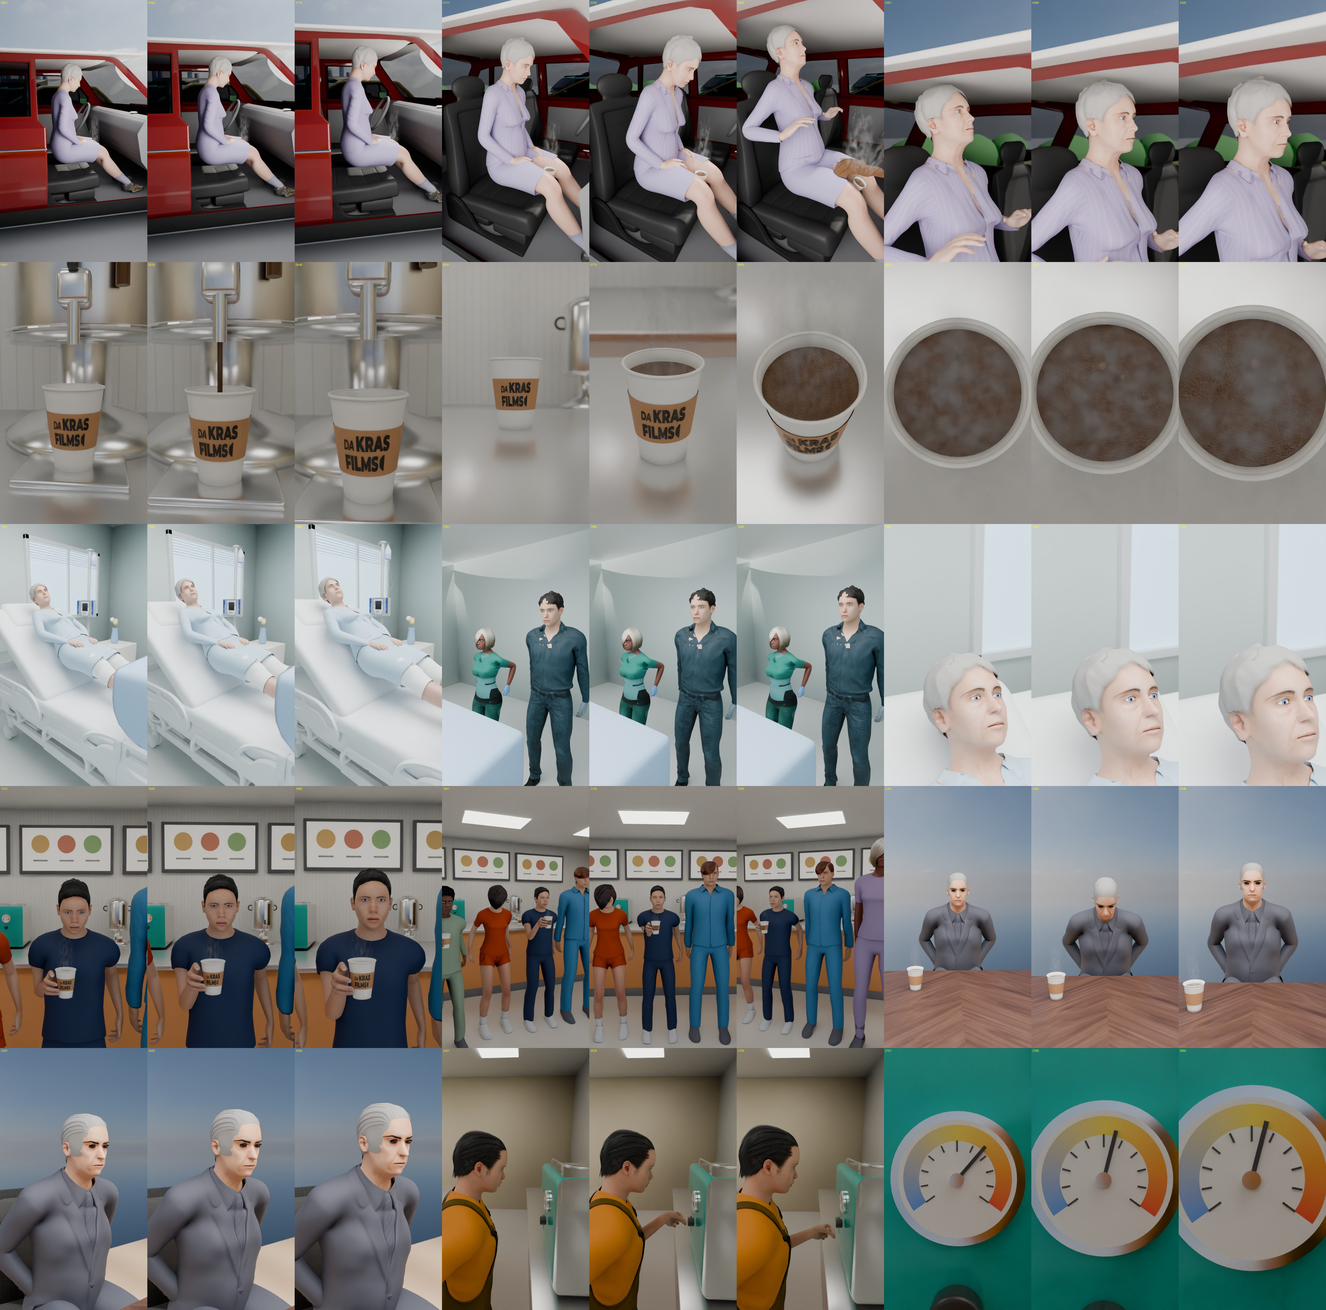
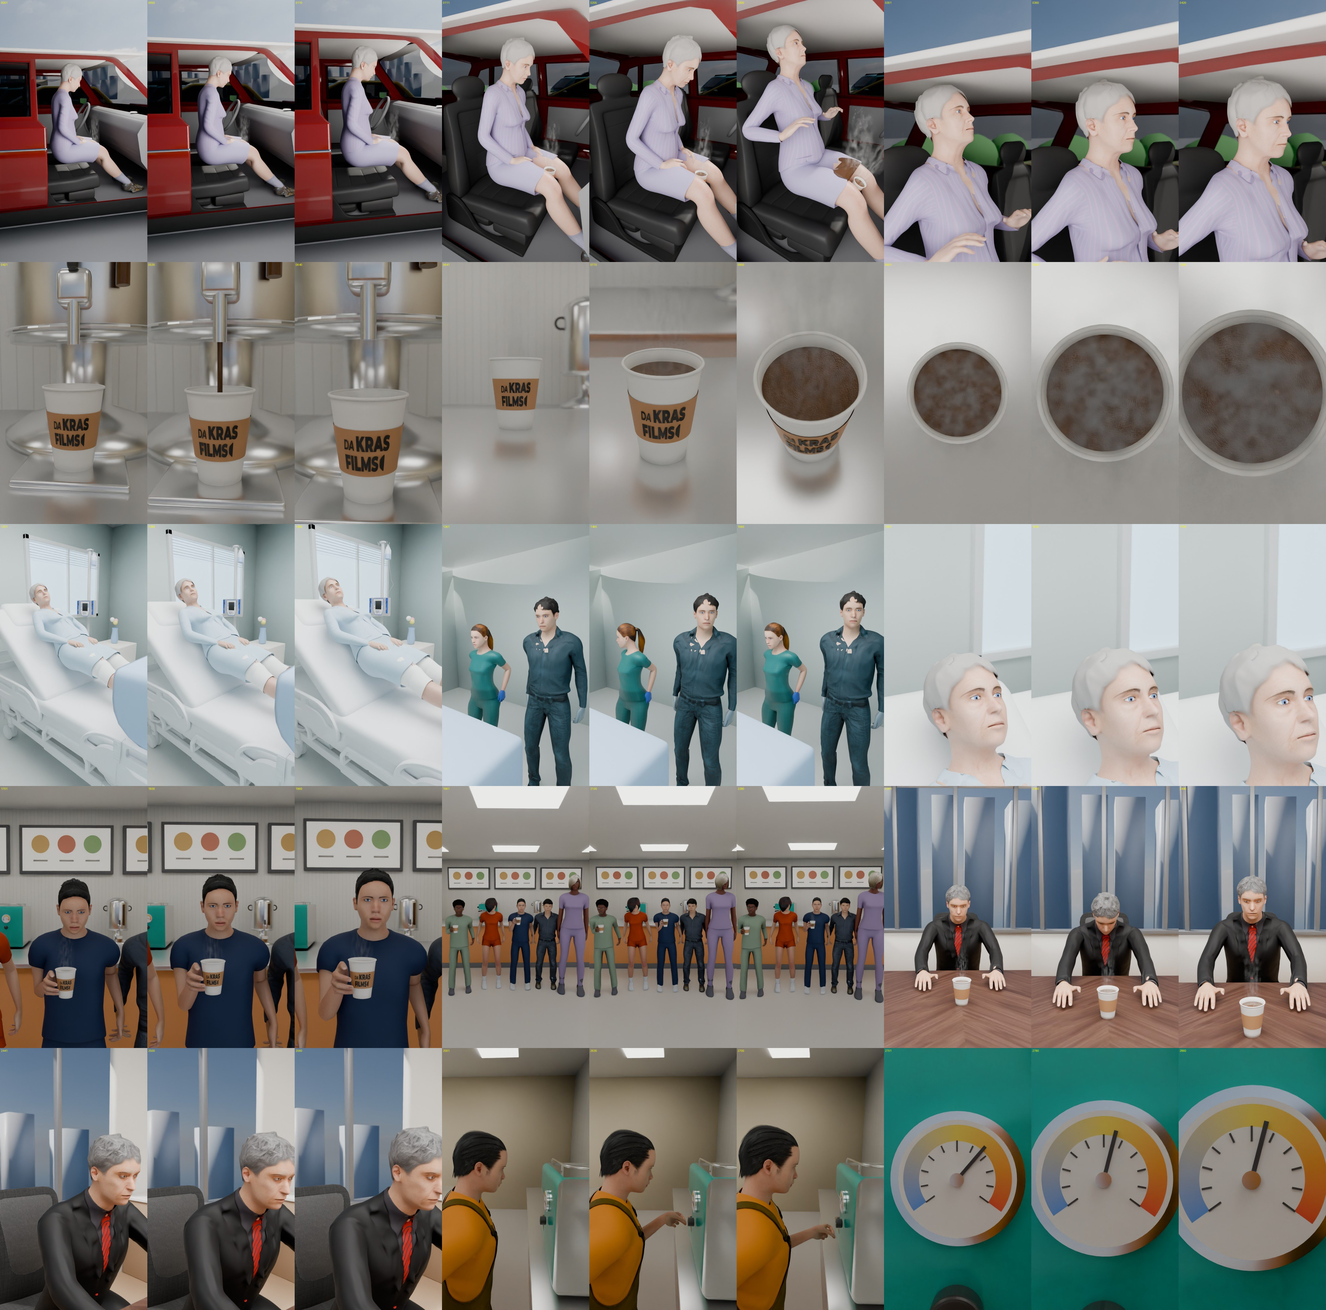
B09 ScaldingCoffee: P1 director notes (boss, boardroom room, nurse/crowd fringes and actions, 2c motion, stain), bpc 0
Claude-Session: https://claude.ai/code/session_01XfwPSkbZR26ScaHxPumGLC

diff --git a/blender/ScaldingCoffee_v001/scripts/b2_b6.py b/blender/ScaldingCoffee_v001/scripts/b2_b6.py
@@ -9,6 +9,12 @@ def hand_about(R, s, f_src, f_dst, center, rot):
     sc.frame_set(f_src); M = R.PB["IK_hand." + s].matrix.copy(); c = Vector(center)
     R.key_world("IK_hand." + s, f_dst, Matrix.Translation(c) @ rot.to_4x4() @ Matrix.Translation(-c) @ M)
 
+def arms_alive(rig, R, H, f0, f1, pos, yaw, out=0.0, every=100, sides="LR"):
+    """relaxed arms that drift slightly forward/back with the weight shift (no stiff hold)"""
+    for i, f in enumerate(range(f0, f1 + 1, every)):
+        arms_relaxed(rig, R, H, f, pos, yaw, out=out, fwd=(-0.02 if i % 2 == 0 else -0.08), sides=sides)
+    arms_relaxed(rig, R, H, f1, pos, yaw, out=out, fwd=-0.05, sides=sides)
+
 def coffee_level(cup, f, h):
     """key the cup's coffee disc at fill height h (fraction of CUP_H)"""
     cf = bpy.data.objects[cup.name + "_Coffee"]; r_ref = CUP_R0 + (CUP_R1 - CUP_R0) * 0.88; r = CUP_R0 + (CUP_R1 - CUP_R0) * h
@@ -23,7 +29,7 @@ def hot_coffee_mat(name):
     nt.links.new(nz.outputs["Fac"], bp.inputs["Height"]); nt.links.new(bp.outputs["Normal"], Pn.inputs["Normal"])
     return m
 
-def stand(H, R, name, f0, f1, pos, yaw, step=20, head=None, flex=0.0, sway=0.6):
+def stand(H, R, name, f0, f1, pos, yaw, step=20, head=None, flex=0.0, sway=0.6, twist=None):
     """standing idle at pos: planted feet, breathing, weight shift, optional head(f) -> (x, z)"""
     for s in "LR":
         for f in (f0, f1):
@@ -33,14 +39,14 @@ def stand(H, R, name, f0, f1, pos, yaw, step=20, head=None, flex=0.0, sway=0.6):
         p = pos + Vector((0, 0, H.root_head.z - 0.01)) + Matrix.Rotation(R_(yaw), 3, 'Z') @ Vector((0.012 * ph * sway, 0, 0))
         H.key_root(f, p, yaw=yaw, flex=flex, side=1.2 * ph * sway)
         hx, hz = head(f) if head else (0.0, 0.0)
-        H.key_spine(f, flex=1.2 * math.sin(2 * math.pi * (f - f0) / 190), head=(hx, hz))
+        H.key_spine(f, flex=1.2 * math.sin(2 * math.pi * (f - f0) / 190), twist=(twist(f) if twist else 0.0), head=(hx, hz))
 
-def arms_relaxed(rig, R, H, f, pos, yaw, out=0.0):
+def arms_relaxed(rig, R, H, f, pos, yaw, out=0.0, fwd=-0.04, sides="LR"):
     """hands hang beside the thighs with a slight elbow bend"""
     Rz = Matrix.Rotation(R_(yaw), 3, 'Z')
-    for s in "LR":
+    for s in sides:
         sx = 1 if s == "L" else -1
-        W_ = pos + Rz @ Vector((sx * (0.24 + out), 0.02, 0.86))
+        W_ = pos + Rz @ Vector((sx * (0.24 + out), fwd, 0.88))
         place_hand(rig, s, f, W_, Rz @ Vector((-sx, 0.15, 0)), Rz @ Vector((0.0, -0.12, -1)))
         pole(R, s, f, pos + Rz @ Vector((sx * 0.35, 0.45, 1.05)))
         apply_pose(rig, s, "relaxed", f)
@@ -87,7 +93,8 @@ def beat_B2():
     rw = hm.node_tree.nodes["RippleW"].outputs[0]
     for f in (641, 1200): rw.default_value = (f - 641) / 60 * 0.6; rw.keyframe_insert("default_value", frame=f)
     lin(hm.node_tree)
-    s2 = steam("CounterSteam", cF, (40.30, CY, 1.04 + CUP_H * 0.86), h=0.27, r=0.045, dens=0.75); key_steam(s2, 641, 1200)
+    s2 = steam("CounterSteam", cF, (40.30, CY, 1.04 + CUP_H * 0.86), h=0.27, r=0.045, dens=0.75); key_steam(s2, 641, 900)
+    key_steam_fast = True
     surf = 1.04 + CUP_H * 0.88
     bub = []
     for i in range(7):
@@ -104,7 +111,14 @@ def beat_B2():
                                  (900, (40.30, CY - 0.17, 1.40), (40.30, CY, 1.13))], lens=50)
     c = bpy.data.objects.new("Cam2c", bpy.data.cameras.new("Cam2c")); sc.collection.objects.link(c)
     c.data.lens = 70; c.data.dof.use_dof = True; c.data.dof.aperture_fstop = 11.0; c.data.clip_start = 0.01
-    for f, z, rz in ((901, 1.47, 0.0), (1200, 1.425, 0.35)):
+    am2 = s2.active_material.node_tree.nodes["SteamAmount"].outputs[0]
+    for f, v in ((641, 0.75), (900, 0.8), (960, 1.25), (1200, 1.25)): am2.default_value = v; am2.keyframe_insert("default_value", frame=f)
+    ntw = s2.active_material.node_tree
+    for nm, per_s in (("SteamW", 1.8), ("SteamRise", 1.3)):   # faster swirl during the macro
+        v = ntw.nodes[nm].outputs[0]; v.default_value = 0.9 * (900 - 641) / 60 if nm == "SteamW" else 0.5 * (900 - 641) / 60
+        v.keyframe_insert("default_value", frame=901); base = v.default_value
+        v.default_value = base + per_s * (1200 - 901) / 60; v.keyframe_insert("default_value", frame=1200)
+    for f, z, rz in ((901, 1.62, 0.0), (1050, 1.50, 0.45), (1200, 1.44, 0.9)):
         c.location = (40.30, CY, z); c.rotation_euler = (0, 0, rz); c.keyframe_insert("location", frame=f); c.keyframe_insert("rotation_euler", frame=f)
         c.data.dof.focus_distance = z - surf; c.data.dof.keyframe_insert("focus_distance", frame=f)
     m = sc.timeline_markers.new("Cam2c", frame=901); m.camera = c; CAMS.append(("Cam2c", 901, 1200, c))
@@ -178,19 +192,25 @@ def beat_B3():
     bl.modifiers.new("Sub", 'SUBSURF').levels = 2
     # staff at the foot of the bed, facing the patient (+Y)
     staff = {}
-    for cid, pos in (("Doctor", Vector((bx - 0.28, -1.45, 0))), ("Nurse", Vector((bx + 0.42, -1.40, 0)))):
+    for cid, pos in (("Doctor", Vector((bx - 0.28, -1.45, 0))), ("Nurse2", Vector((bx + 0.42, -1.40, 0)))):
         r2, R2, H2 = setup(cid); staff[cid] = (r2, R2, H2)
         FLOORS[:] = [bpy.data.objects["HospFloor"]]
-        hd = (lambda f: (12 if f < 1450 else 4, 0)) if cid == "Doctor" else (lambda f: (6 + (5 * math.sin((f - 1400) / 9) if 1440 < f < 1500 else 0), 0))
-        stand(H2, R2, cid, 1201, 1700, pos, 180.0, head=hd)
-        o_ = -0.07 if cid == "Nurse" else 0.0
-        arms_relaxed(r2, R2, H2, 1201, pos, 180.0, out=o_); arms_relaxed(r2, R2, H2, 1700, pos, 180.0, out=o_)
+        if cid == "Doctor":     # looks down at her legs, turns to the nurse, nods; shifts his weight
+            hd = lambda f: (14 if f < 1440 else (4 + (6 * math.sin((f - 1500) / 8) if 1500 < f < 1560 else 0)), 0 if f < 1440 else 18)
+            tw = lambda f: 0 if f < 1440 else 10
+            stand(H2, R2, cid, 1201, 1700, pos, 180.0, head=hd, sway=1.6, twist=tw)
+        else:                   # turns to check the IV monitor, then back to the patient and nods
+            hd = lambda f: (8, -35 if 1390 < f < 1480 else 0) if f < 1500 else (8 + 6 * math.sin((f - 1500) / 8), 0)
+            tw = lambda f: -18 if 1390 < f < 1480 else 0
+            stand(H2, R2, cid, 1201, 1700, pos, 180.0, head=hd, sway=1.2, twist=tw)
+        o_ = -0.07 if cid == "Nurse2" else 0.0
+        arms_alive(r2, R2, H2, 1201, 1700, pos, 180.0, out=o_)
     tint(staff["Doctor"][0], "casualsuit01", (0.45, 0.62, 0.95))
-    tint(staff["Nurse"][0], "sportsuit01", (0.45, 0.85, 0.70))
+    tint(staff["Nurse2"][0], "casualsuit01", (0.45, 0.85, 0.70))
     lookat = Vector((bx, 0.75, 1.05))
     cam_shot("Cam3a", 1201, 1360, [(1201, (78.55, -0.55, 1.30), (79.70, 0.55, 0.88)), (1360, (78.65, -0.30, 1.26), (79.70, 0.60, 0.90))], lens=28)
     sc.frame_set(1460); bpy.context.view_layer.update()
-    dh = staff["Doctor"][0].matrix_world @ staff["Doctor"][0].pose.bones["head"].head; nh = staff["Nurse"][0].matrix_world @ staff["Nurse"][0].pose.bones["head"].head
+    dh = staff["Doctor"][0].matrix_world @ staff["Doctor"][0].pose.bones["head"].head; nh = staff["Nurse2"][0].matrix_world @ staff["Nurse2"][0].pose.bones["head"].head
     mid = (dh + nh) / 2 - Vector((0, 0, 0.22))
     cam_shot("Cam3b", 1361, 1560, [(1361, (78.80, 0.05, 1.60), tuple(mid)), (1560, (78.83, -0.05, 1.59), tuple(mid))], lens=26)
     sc.frame_set(1630); bpy.context.view_layer.update()
@@ -201,17 +221,20 @@ def beat_B3():
 # ================================================================== B4 complaints (1701..2280)
 def beat_B4():
     cF = bpy.data.collections["SetCafe"]; FLOORS[:] = [bpy.data.objects["CafeFloor"]]
-    line = [("C2", 38.95, -1.30, 15), ("C1", 39.50, -1.10, 8), ("C4", 40.05, -1.15, 0), ("Hero", 40.62, -1.12, -8), ("C5", 41.18, -1.32, -15)]
-    cols = {"Hero": ("casualsuit03", (0.30, 0.55, 0.85)), "C1": ("casualsuit02", (0.95, 0.45, 0.35)), "C4": ("casualsuit04", (0.20, 0.21, 0.24))}
+    line = [("C2", 38.95, -1.30, 15), ("C1", 39.50, -1.10, 8), ("C4", 40.05, -1.15, 0), ("Hero2", 40.55, -1.12, -8), ("C5", 40.98, -1.30, -15)]
+    cols = {"Hero2": ("casualsuit01", (0.30, 0.55, 0.85)), "C1": ("casualsuit02", (0.95, 0.45, 0.35)), "C4": ("casualsuit04", (0.20, 0.21, 0.24))}
     cups = {}
     for cid, x, y, yaw in line:
         rig, R, H = setup(cid); pos = Vector((x, y, 0)); yaw_ = 180.0 + 180.0 + yaw   # face -Y (camera), small turn
         yaw_ = yaw
         if cid in cols: tint(rig, cols[cid][0], cols[cid][1])
-        hd = {"C4": lambda f: (18 if f < 1830 else 2, 0), "C1": lambda f: (22, 0), "Hero": lambda f: (8, 10 * math.sin((f - 2000) / 14) if 1990 < f < 2090 else 0),
+        hd = {"C4": lambda f: (18 if f < 1830 else 2, 0), "C1": lambda f: (22, 0), "Hero2": lambda f: (8, 10 * math.sin((f - 2000) / 14) if 1990 < f < 2090 else 0),
               "C2": lambda f: (4, -20 if f > 2050 else 0), "C5": lambda f: (6, 18 if f > 2100 else 0), "C3": lambda f: (2, 0)}[cid]
-        stand(H, R, cid, 1701, 2280, pos, yaw_, head=hd, flex=(6 if cid == "C1" else 0))
-        arms_relaxed(rig, R, H, 1701, pos, yaw_); arms_relaxed(rig, R, H, 2280, pos, yaw_)
+        tw = {"C2": lambda f: 14 if f > 2050 else 0, "C1": lambda f: -12 if 2000 < f < 2150 else 0, "C5": lambda f: 16 if f > 2100 else 0,
+              "Hero2": lambda f: -10 if 2100 < f < 2220 else 0, "C4": lambda f: 0}[cid]
+        stand(H, R, cid, 1701, 2280, pos, yaw_, head=hd, flex=(6 if cid == "C1" else 0), sway=1.4, twist=tw)
+        arms_alive(rig, R, H, 1701, 2280, pos, yaw_, sides=("L" if cid in ("C4", "C2") else "LR"))
+        if cid in ("C4", "C2"): arms_relaxed(rig, R, H, 1701, pos, yaw_, sides="R")   # start pose for the cup hand (grip keys follow)
         if cid in ("C4", "C2"):
             Rz = Matrix.Rotation(R_(yaw_), 3, 'Z')
             sc.frame_set(1701); bpy.context.view_layer.update()
@@ -226,14 +249,14 @@ def beat_B4():
             for f in (1760, 1900, 2000, 2150, 2280): hold_fingers(rig, "R", 1701, f)
             lift = {"C4": [(1830, (0, -0.06, 0.06)), (1960, (0, -0.08, 0.08)), (2280, (0, -0.02, 0.02))],
                     "C1": [(1900, (0, 0, 0.05)), (2000, (0, 0, 0.08)), (2120, (0, 0, 0.02)), (2280, (0, 0, 0.03))],
-                    "Hero": [(2000, (0, -0.03, 0.07)), (2100, (0, -0.02, 0.03)), (2280, (0, 0, 0.0))],
+                    "Hero2": [(2000, (0, -0.03, 0.07)), (2100, (0, -0.02, 0.03)), (2280, (0, 0, 0.0))],
                     "C2": [(2100, (0, 0, 0.03)), (2280, (0, 0, 0.0))]}[cid]
             for f, d in lift: hand_delta(R, "R", 1701, f, Rz @ Vector(d))
             print("B4 cup grip", cid, rep)
             vis(cup, 1, False); vis(cup, 1701, True); vis(cup, 2281, False)
             cups[cid] = cup
     cam_shot("Cam4a", 1701, 1960, [(1701, (40.02, -2.75, 1.52), (40.05, -1.15, 1.45)), (1960, (39.98, -2.50, 1.50), (40.05, -1.15, 1.44))], lens=42)
-    c4b = cam_shot("Cam4b", 1961, 2280, [(1961, (38.95, -3.55, 1.50), (39.75, -1.25, 1.30)), (2280, (41.05, -3.55, 1.50), (40.45, -1.25, 1.30))], lens=30)
+    c4b = cam_shot("Cam4b", 1961, 2280, [(1961, (39.92, -4.65, 1.62), (39.97, -1.20, 1.30)), (2280, (40.02, -4.48, 1.60), (39.97, -1.20, 1.30))], lens=26)   # wide: all five customers stay whole in frame
 
 # ================================================================== B5 backlash (2281..2560)
 def beat_B5():
@@ -241,29 +264,27 @@ def beat_B5():
     tbl = [o for o in bpy.data.objects if o.parent and o.parent.name == "BoardTable" or (o.parent and o.parent.parent and o.parent.parent.name == "BoardTable")]
     ttop = 0.762
     lead = "ExecA" if bpy.data.filepath and False else None
-    lead = "ExecC"
+    lead = "Boss2"
     rigA, RA, HA = setup(lead, "BossA"); FLOORS[:] = [bpy.data.objects["BoardFloor"]]
-    tint(rigA, "suit", (0.62, 0.64, 0.68), "MIX", 0.7)
+    pass   # keep the suit/shirt/tie textures (no flat tint)
     ch0 = bpy.data.objects["BoardChair0"]; cmn, cmx = bounds([ch0]); ccx, ccy = (cmn.x + cmx.x) / 2, (cmn.y + cmx.y) / 2
     dg = bpy.context.evaluated_depsgraph_get(); hit = sc.ray_cast(dg, Vector((ccx, ccy + 0.08, 1.2)), Vector((0, 0, -1)))
     seat = hit[1].z if hit[0] and 0.3 < hit[1].z < 0.7 else 0.47
     print("B5 seat z", round(seat, 3), "chair", round(ccx, 2), round(ccy, 2))
-    hipA = Vector((120.0, ccy + 0.10, seat + 0.13))
+    hipA = Vector((120.0, ccy + 0.15, seat + 0.13)); BOSS_PALM = 0.045
     # seated at the head of the table facing +Y: lean in with palms flat, then sit back and exhale
-    for f, fl in ((2281, 7), (2330, 16), (2400, 16), (2440, 6), (2560, 6)): HA.key_root(f, hipA, yaw=180.0, flex=fl)
+    for f, fl in ((2281, 18), (2330, 24), (2400, 24), (2440, 17), (2560, 17)): HA.key_root(f, hipA, yaw=180.0, flex=fl)
     for f in range(2281, 2561, 20): HA.key_spine(f, flex=4 + 1.2 * math.sin((f - 2281) / 30), head=(14 if 2320 < f < 2410 else -6, (7 * math.sin((f - 2470) / 9) if 2470 < f < 2530 else 0)))   # looks down at the cup, up, exhales, small head shake
     for s in "LR":
         sx = 1 if s == "L" else -1
         for f in (2281, 2560):
             foot_at(RA, HA, s, f, Vector((120.0 - sx * 0.12, -2.0, HA.ankle[s].z)), yaw=180)
             knee_pole(RA, s, f, Vector((120.0 - sx * 0.15, -1.2, 0.6)))
-        for f in (2281, 2560):
-            sc.frame_set(f); bpy.context.view_layer.update()
-            th = rigA.matrix_world @ rigA.pose.bones["upperleg02." + s].head
-            place_hand(rigA, s, f, th + Vector((0, 0, 0.09)), Vector((0, 0, -1)), Vector((sx * 0.25, 1, 0)))
-            apply_pose(rigA, s, "relaxed", f); pole(RA, s, f, Vector((120.0 - sx * 0.45, -2.5, 0.75)))
-    cF_ = paper_cup("BoardCup", cB, (120.25, -1.60, ttop), with_logo=False)
-    st = steam("BoardSteam", cB, (120.25, -1.60, ttop + CUP_H * 0.86), h=0.22, r=0.035, dens=0.45); key_steam(st, 2281, 2560)
+        for f, y in ((2281, -1.66), (2330, -1.58), (2400, -1.58), (2440, -1.68), (2560, -1.68)):   # forearms resting on the table, palms flat, hovering >= 5 mm
+            place_hand(rigA, s, f, Vector((120.0 - sx * 0.21, y, ttop + BOSS_PALM)), Vector((0, 0, -1)), Vector((sx * 0.20, 1, 0)))
+            apply_pose(rigA, s, "flat_palm", f); pole(RA, s, f, Vector((120.0 - sx * 0.55, -2.2, 0.80)))
+    cF_ = paper_cup("BoardCup", cB, (120.0, -1.40, ttop), with_logo=False)
+    st = steam("BoardSteam", cB, (120.0, -1.40, ttop + CUP_H * 0.86), h=0.22, r=0.035, dens=0.45); key_steam(st, 2281, 2560)
     others = []   # 5b is a close-up of the boss (side executives dropped: fewer bodies, no chair contacts)
     for cid, hp, yaw in others:
         r2, R2, H2 = setup(cid, cid + "B5")

diff --git a/blender/ScaldingCoffee_v001/scripts/02_sets.py b/blender/ScaldingCoffee_v001/scripts/02_sets.py
@@ -522,6 +522,18 @@ box("WinSill", cB, (X + 3.5, 0, 0.35), (0.1, 8, 0.7), m_mul, 0.005)
 for i in range(12):
     hgt = 8 + (i * 37 % 11) * 2.5
     box("Tower%d" % i, cB, (X + 30 + (i % 3) * 9, -20 + i * 4.0, hgt / 2 - 6), (6, 3, hgt), mat("Tower%d" % (i % 3), [(0.75, 0.82, 0.9), (0.85, 0.85, 0.88), (0.7, 0.78, 0.86)][i % 3], 0.4), 0)
+# wall behind the boss (-Y) with a big window onto the city, and a low cabinet + plant (no empty backdrop)
+for nm, loc, sz in (("BoardWallFL", (X - 2.45, -3.45, 1.5), (2.1, 0.1, 3.0)), ("BoardWallFR", (X + 2.45, -3.45, 1.5), (2.1, 0.1, 3.0)),
+                    ("BoardWallFB", (X, -3.45, 0.4), (2.8, 0.1, 0.8)), ("BoardWallFT", (X, -3.45, 2.75), (2.8, 0.1, 0.5))):
+    box(nm, cB, loc, sz, m_bw, 0)
+for i in range(3):
+    box("FrontMullion%d" % i, cB, (X - 0.7 + i * 0.7, -3.42, 1.65), (0.05, 0.06, 1.7), m_mul, 0.004)
+box("FrontSill", cB, (X, -3.40, 0.82), (2.8, 0.14, 0.04), m_mul, 0.004)
+for i in range(10):
+    hgt = 10 + (i * 53 % 13) * 2.2
+    box("TowerF%d" % i, cB, (X - 22 + i * 4.6, -32 - (i % 3) * 6, hgt / 2 - 6), (3.8, 3.5, hgt), mat("Tower%d" % (i % 3), [(0.75, 0.82, 0.9), (0.85, 0.85, 0.88), (0.7, 0.78, 0.86)][i % 3], 0.4), 0)
+box("Sideboard", cB, (X - 2.3, -3.15, 0.40), (1.6, 0.45, 0.80), mat("Sideboard", (0.40, 0.27, 0.17), 0.4), 0.01)
+box("SideboardTop", cB, (X - 2.3, -3.15, 0.815), (1.64, 0.48, 0.03), mat("SideTop", (0.85, 0.85, 0.83), 0.3), 0.005)
 # wall art (abstract colour panels, no text)
 for i, (y, cl) in enumerate(((-1.0, (0.2, 0.45, 0.75)), (1.0, (0.85, 0.55, 0.2)))):
     box("Art%d" % i, cB, (X - 3.43, y, 1.65), (0.04, 1.1, 0.75), mat("Art%d" % i, cl, 0.5), 0.005)

diff --git a/blender/ScaldingCoffee_v001/scripts/03_anim.py b/blender/ScaldingCoffee_v001/scripts/03_anim.py
@@ -250,9 +250,8 @@ def beat_B1():
     bmesh.ops.subdivide_edges(bm, edges=bm.edges[:], cuts=3, use_grid_fill=True)
     me = bpy.data.meshes.new("SpillPool"); bm.to_mesh(me); bm.free()
     pool = bpy.data.objects.new("SpillPool", me); cC.objects.link(pool); pool.location = pool_c; pool.scale = (0.9, 1.4, 1)
-    me.materials.append(mat("CoffeeWet", (0.13, 0.06, 0.025), 0.12))
-    sw = pool.modifiers.new("Wrap", 'SHRINKWRAP'); sw.target = skirt; sw.wrap_method = 'PROJECT'; sw.use_project_z = True
-    sw.use_negative_direction = True; sw.use_positive_direction = True; sw.offset = 0.004
+    me.materials.append(mat("CoffeeStain", (0.07, 0.03, 0.012), 0.06, coat=0.8))   # flat, dark, glossy stain on the dress
+    sw = pool.modifiers.new("Wrap", 'SHRINKWRAP'); sw.target = skirt; sw.wrap_method = 'NEAREST_SURFACEPOINT'; sw.wrap_mode = 'OUTSIDE_SURFACE'; sw.offset = 0.0025
     for f, sc_ in ((1, 0.02), (214, 0.02), (232, 0.55), (270, 1.0), (420, 1.12)):
         pool.scale = (0.9 * sc_, 1.4 * sc_, 1); pool.keyframe_insert("scale", frame=f)
     vis(pool, 1, False); vis(pool, 214, True)

diff --git a/blender/ScaldingCoffee_v001/scripts/char_build.py b/blender/ScaldingCoffee_v001/scripts/char_build.py
@@ -17,6 +17,9 @@ SPEC = {
  "ExecB": (R + "TitanicIceberg_v014/TitanicIceberg_v014_60fps.blend", "ExpertB", {}, (), []),
  "ExecC": (R + "PrisonKeyCake_v010/PrisonKeyCake_v010_60fps.blend", "President", {}, (), []),
  "Employee": (BF, "Stocker", {}, (), []),
+ "Nurse2": (R + "ToucanBeak_v009/ToucanBeak_v009_60fps.blend", "VetA", {}, (), []),
+ "Hero2": (R + "AIAsleep_v007/AIAsleep_v007_60fps.blend", "Driver", {}, (), []),
+ "Boss2": (R + "BeethovenDeaf_v010/BeethovenDeaf_v010_60fps.blend", "Composer", {"age": 0.62}, (), []),
 }
 cid = sys.argv[sys.argv.index("--") + 1]
 bpy.ops.wm.read_factory_settings(use_empty=True)

diff --git a/blender/ScaldingCoffee_v001/PLAN.md b/blender/ScaldingCoffee_v001/PLAN.md
@@ -33,13 +33,13 @@ window below. In Phase 2 each clip is **shifted** (never stretched) so its start
 | 1c (301–420) | B1 | Her face: she flinches, eyes wide, both open hands lift up and out (open_alarm), and she leans back into the seat | Medium close from the door opening, f/8, lens 55, framed below the roof lining | No teeth grimace; hands clear of the face and of each other |
 | 2a (421–640) | B2 | A stainless coffee urn's tap pours a steaming stream into a white paper cup (DA KRAS FILMS logo) and the cup fills (the reference's pour) | Close front 3/4 on cup + spout, push-in, f/8 | No floating carafe: the urn pours, no hand needed. (The espresso machine's drip-tray lip hid the cup, so the pour moved to the urn.) |
 | 2b (641–900) | B2 | The served cup on the counter, logo to camera, steam rolls up; camera rises to look into the cup (reference 9–12 s) | Crane up over the cup rim | Rim never inside the lens; stop 25 cm above |
-| 2c (901–1200) | B2 | Top-down macro of the coffee surface: gentle simmer ripples, small bubbles, thick steam (reference 12–15 s) | Straight down, slow rotate + push, f/11 | Hero macro ≤ ~1 s per framing, keeps moving; nothing blurred |
+| 2c (901–1200) | B2 | Top-down macro of the coffee surface: simmer ripples, popping bubbles, thick steam that swirls up faster through the shot | Straight down, clear push-in (z 1.62 → 1.44) with a slow 50° turn, f/11 | Nothing blurred; the push and steam keep it moving |
 | 3a (1201–1360) | B3 | Hospital: she lies propped up in bed, both thighs wrapped in clean white bandages (no wounds, no red), blanket at the shins; she breathes, shifts her shoulders, turns her head | Side medium from bed's long side, slow dolly | Clean bandages only; no distress close-up |
-| 3b (1361–1560) | B3 | Doctor (blue scrubs) and nurse (green scrubs) at the foot of the bed, hands relaxed; the doctor looks down at her, the nurse nods (reference 18–21 s). Clipboard dropped: the doctor's grip on it failed the contact check | Low over her blanketed legs toward the staff | No arm crosses the patient; staff stay behind the foot rail |
+| 3b (1361–1560) | B3 | Doctor (blue scrubs) and nurse (green scrubs, ponytail, both eyes clear) at the foot of the bed. The nurse turns to check the IV monitor, then back, and nods; the doctor looks down at her legs, shifts his weight, turns to the nurse and nods. Arms relaxed with a light drift | From the side of the bed | No props in hand |
 | 3c (1561–1700) | B3 | Her face on the pillow: she looks toward the staff, small nod | Close, f/8 | Face fill ≤ 10 W; eyes checked |
 | 4a (1701–1960) | B4 | Restaurant: a man (dark T-shirt) holds a steaming logo cup at chest height, looks down at it, then at us (reference 21–24 s) | Medium close, slight push | One hand wraps the cup (palm 2.5 cm off the wall, fingers closed onto the sleeve), the other arm relaxed; cup below the chin |
-| 4b (1961–2280) | B4 | Wider: a line of 5 customers; two hold steaming cups, the others react (head shake, turn to each other) | Lateral track along the line (reference 24–28 s) | Cups held low (chest); no cup at the lips; clothes in clear non-skin colours |
-| 5a (2281–2440) | B5 | Boardroom: the boss (grey suit, white hair) at the head of the table, a plain cup in front of him; he leans in and looks down at the cup, then sits back | Across the table, medium | Hands rest in his lap under the table edge (palms-on-table failed the contact check) |
+| 4b (1961–2280) | B4 | Wide: the line of 5 customers, all whole in frame; two hold steaming cups, the others turn to each other, shake heads, shift weight | Wide with a slow push-in (all five stay inside the frame) | Cups held low; clothes in clear non-skin colours |
+| 5a (2281–2440) | B5 | Boardroom: the boss (dark suit, white shirt, red tie, short grey hair) at the head of the table, forearms resting on the table, palms flat; a plain cup in front of him; he leans in and looks down at it, then sits back. Window wall onto the city behind him, sideboard | Across the table, medium | Palms hover 4.5 cm (bone) above the wood; body_prop_cross 0 |
 | 5b (2441–2560) | B5 | Close 3/4 on the boss: he looks up, exhales and gives a small head shake | Close from the side of the table, f/8 | Side executives dropped (fewer bodies, no chair contacts) |
 | 6a (2561–2700) | B6 | Employee (orange shirt, overalls) stands in the aisle and reaches straight forward to the temperature knob on the machine's side panel (the machine is turned so this panel faces the aisle) and turns it down | Front 3/4 from his right, his face and hand in frame | Tripod grip on the knob rim (fingertips 3 mm from the target point); the knob rotates only while gripped (body_prop_cross 0) |
 | 6b (2701–2860) | B6 | Insert: the dial's arc gauge (blue → yellow → red, no text) and its needle swings from red back to yellow; steam over the cup below thins | Front-on clean insert, f/8, slow push (reference 32–35 s) | The needle is a gauge display, so it moves without a hand; no text on the dial |
